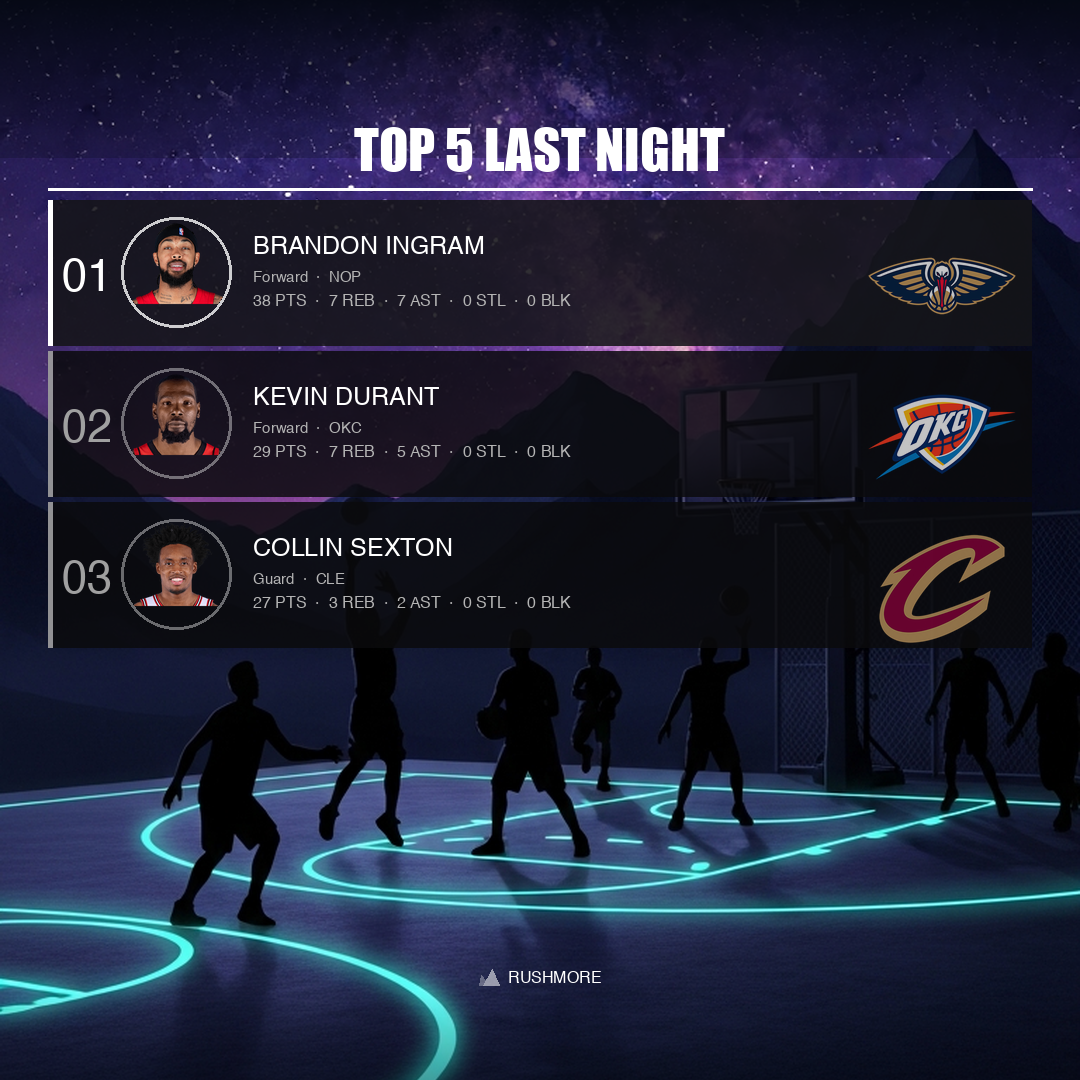
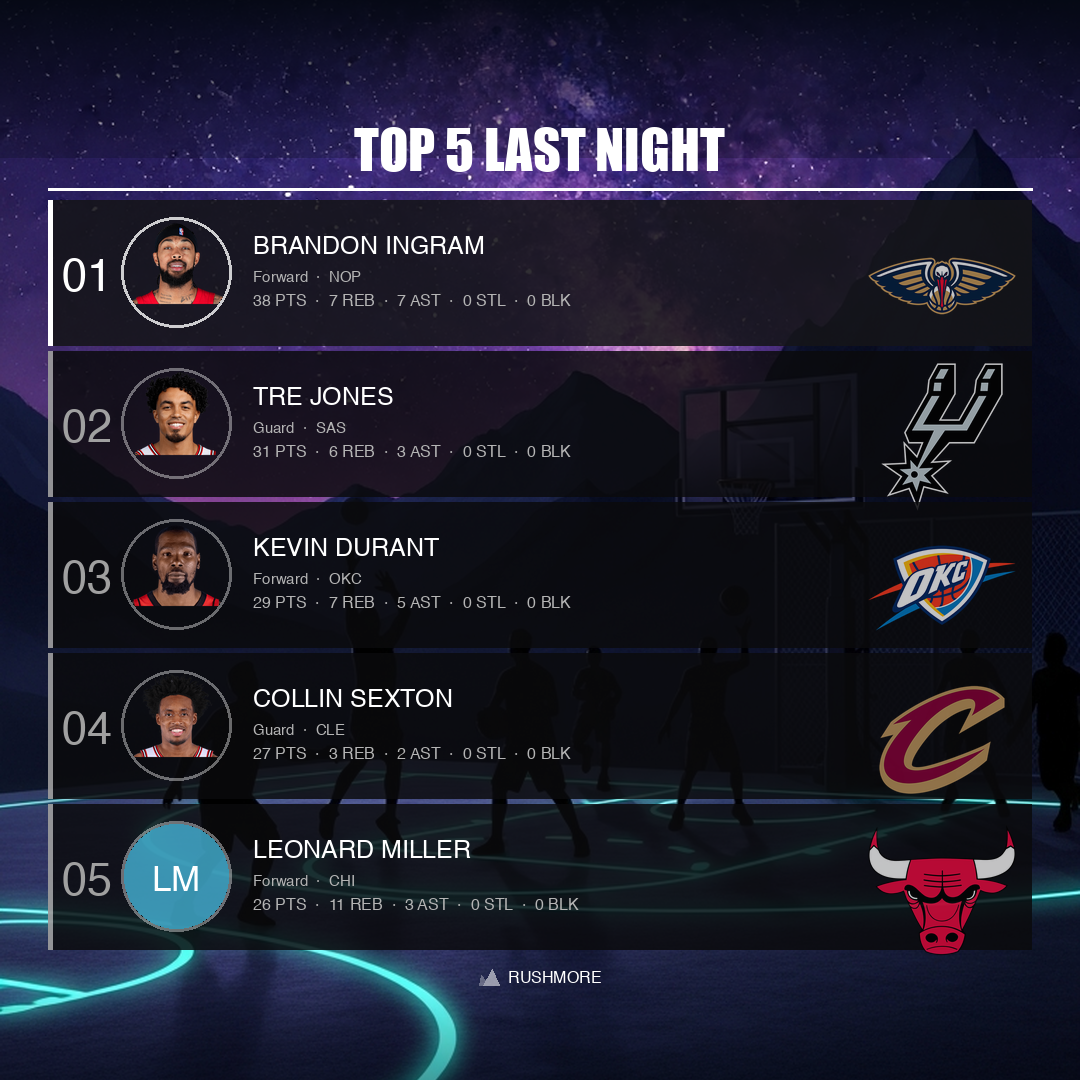
content: daily cards 2026-04-09

diff --git a/output/2026-04-09/captions.md b/output/2026-04-09/captions.md
@@ -10,17 +10,10 @@
 ---
 
 ## Instagram
-Last night's top performers dropped numbers 🔥 BI led the way with 38. Who had the best game? 👇 #NBA #Basketball #NBAHighlights #NBAStats #BrandonIngram #KevinDurant #NightlyBests
+Ingram 38. KD 29. Chicago put 3 in the top 5. Last night delivered. 🔥 #NBA #Basketball #NBAHighlights #NBAStats #TopPerformers #HoopLife #LastNight
 
 ## TikTok
-38 pts. 31 pts. 29 pts. Last night went CRAZY 🔥 Chicago had THREE guys in the top 5 — tap in and tell us: who had the best game? 👇 #NBA #NBAHighlights #BallIsLife #NBAStats
+38 pts. 31 pts. 29 pts. Chicago had THREE guys in the top 5 last night 🤯 Who was your MVP? 👇 #NBA #NBAHighlights #Basketball #BallIsLife
 
 ## X (Twitter)
-Top 5 from last night:
-1. Ingram – 38/7/7
-2. Tre Jones – 31/6/3
-3. Durant – 29/7/5
-4. Sexton – 27/3/2
-5. Miller – 26/11/3
-
-Chicago put on a show. #NBA #NBAStats
+Last night's top 5: Ingram 38/7/7, Tre Jones 31/6/3, Durant 29/7/5, Sexton 27/3/2, Miller 26/11/3. Chicago quietly put 3 guys in the top 5. #NBA #NBAStats
